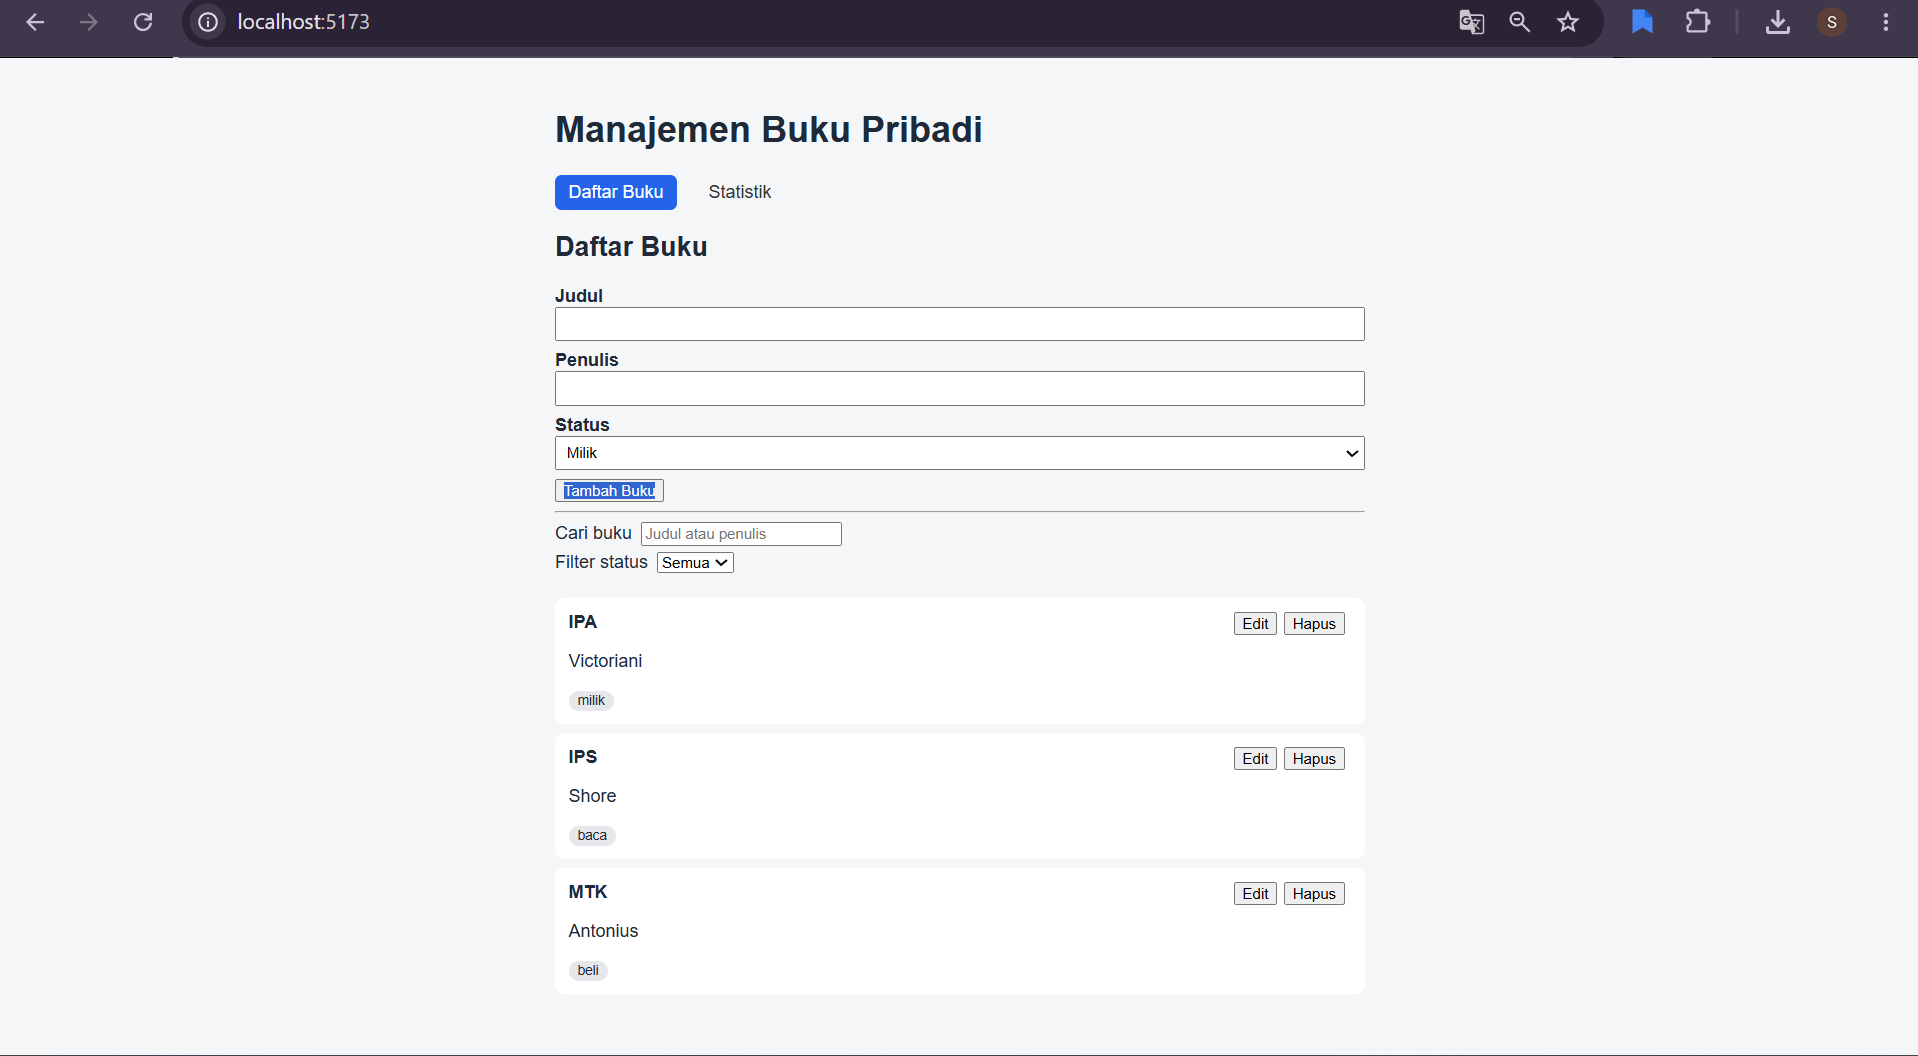
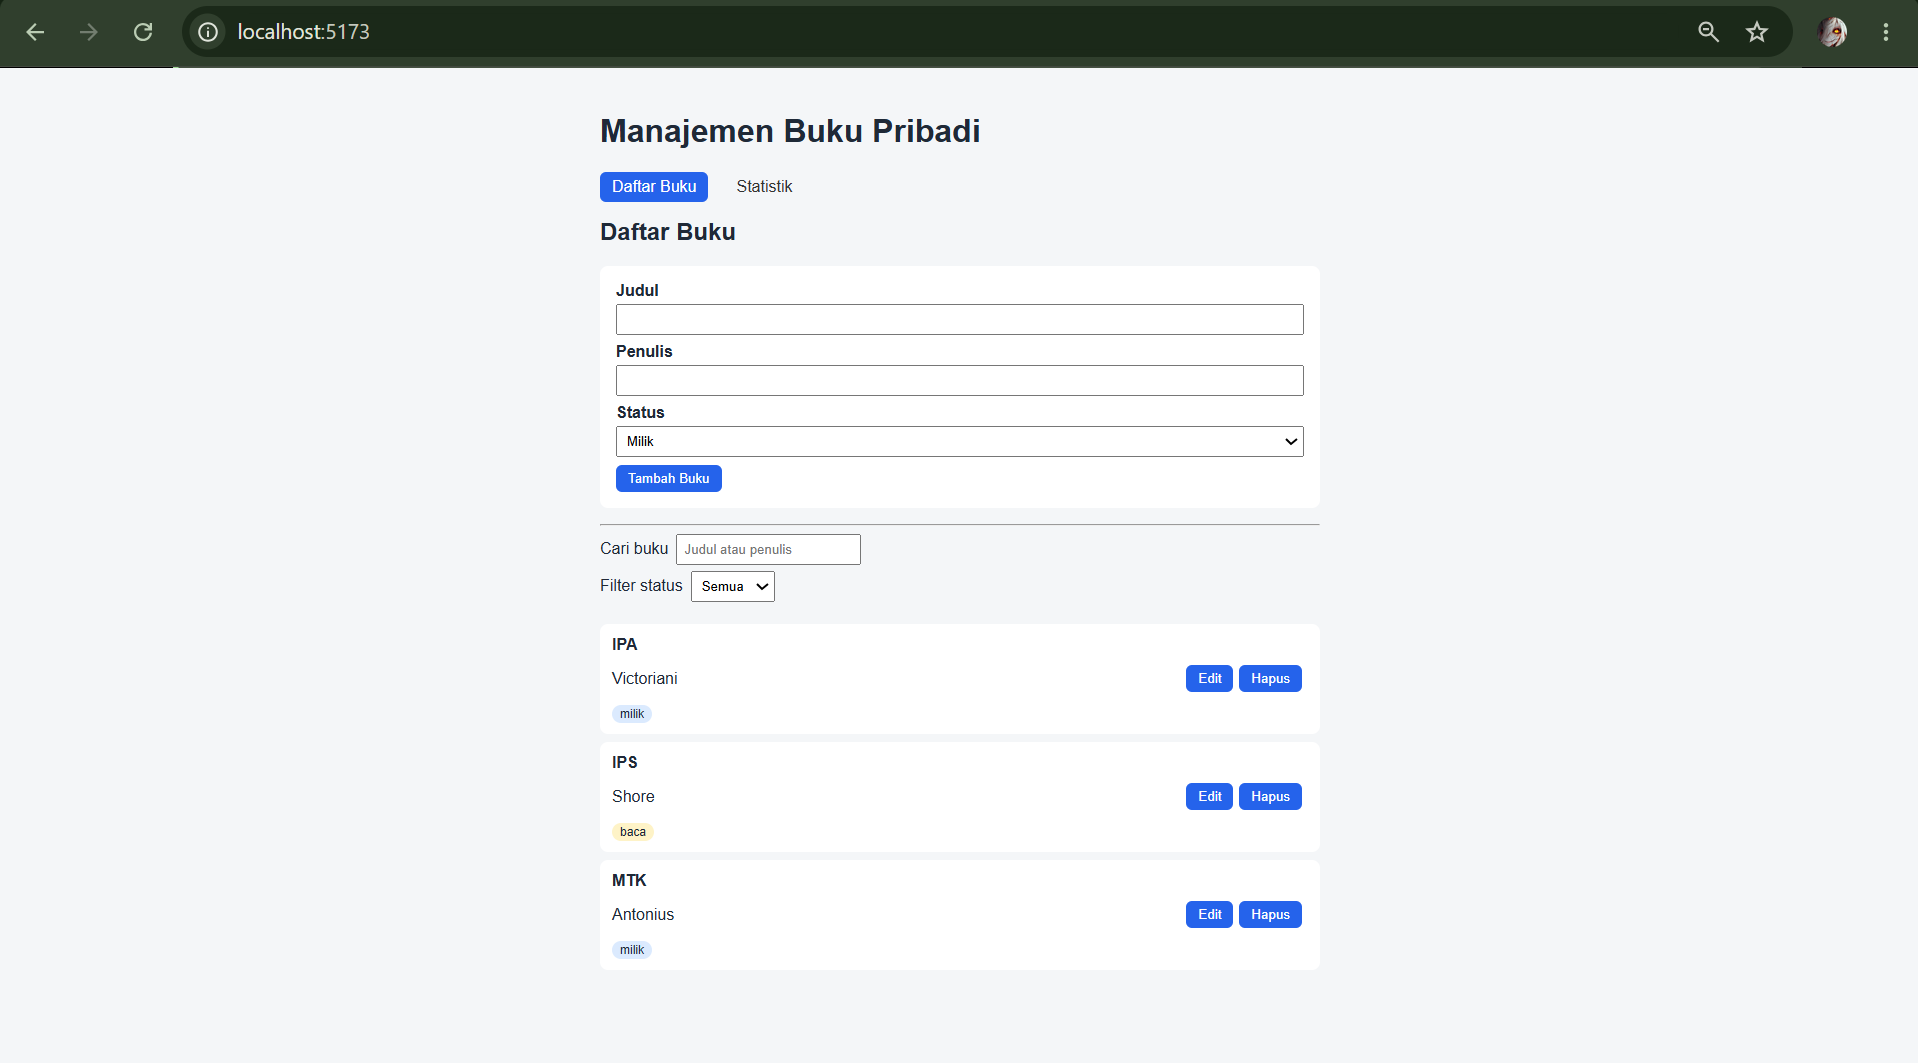
Rapikan struktur folder dan CSS per komponen

diff --git a/Syehabudin_124140102_pertemuan3/src/App.css b/Syehabudin_124140102_pertemuan3/src/App.css
@@ -1,184 +1,4 @@
-.counter {
-  font-size: 16px;
-  padding: 5px 10px;
-  border-radius: 5px;
-  color: var(--accent);
-  background: var(--accent-bg);
-  border: 2px solid transparent;
-  transition: border-color 0.3s;
-  margin-bottom: 24px;
-
-  &:hover {
-    border-color: var(--accent-border);
-  }
-  &:focus-visible {
-    outline: 2px solid var(--accent);
-    outline-offset: 2px;
-  }
-}
-
-.hero {
-  position: relative;
-
-  .base,
-  .framework,
-  .vite {
-    inset-inline: 0;
-    margin: 0 auto;
-  }
-
-  .base {
-    width: 170px;
-    position: relative;
-    z-index: 0;
-  }
-
-  .framework,
-  .vite {
-    position: absolute;
-  }
-
-  .framework {
-    z-index: 1;
-    top: 34px;
-    height: 28px;
-    transform: perspective(2000px) rotateZ(300deg) rotateX(44deg) rotateY(39deg)
-      scale(1.4);
-  }
-
-  .vite {
-    z-index: 0;
-    top: 107px;
-    height: 26px;
-    width: auto;
-    transform: perspective(2000px) rotateZ(300deg) rotateX(40deg) rotateY(39deg)
-      scale(0.8);
-  }
-}
-
-#center {
-  display: flex;
-  flex-direction: column;
-  gap: 25px;
-  place-content: center;
-  place-items: center;
-  flex-grow: 1;
-
-  @media (max-width: 1024px) {
-    padding: 32px 20px 24px;
-    gap: 18px;
-  }
-}
-
-#next-steps {
-  display: flex;
-  border-top: 1px solid var(--border);
-  text-align: left;
-
-  & > div {
-    flex: 1 1 0;
-    padding: 32px;
-    @media (max-width: 1024px) {
-      padding: 24px 20px;
-    }
-  }
-
-  .icon {
-    margin-bottom: 16px;
-    width: 22px;
-    height: 22px;
-  }
-
-  @media (max-width: 1024px) {
-    flex-direction: column;
-    text-align: center;
-  }
-}
-
-#docs {
-  border-right: 1px solid var(--border);
-
-  @media (max-width: 1024px) {
-    border-right: none;
-    border-bottom: 1px solid var(--border);
-  }
-}
-
-#next-steps ul {
-  list-style: none;
-  padding: 0;
-  display: flex;
-  gap: 8px;
-  margin: 32px 0 0;
-
-  .logo {
-    height: 18px;
-  }
-
-  a {
-    color: var(--text-h);
-    font-size: 16px;
-    border-radius: 6px;
-    background: var(--social-bg);
-    display: flex;
-    padding: 6px 12px;
-    align-items: center;
-    gap: 8px;
-    text-decoration: none;
-    transition: box-shadow 0.3s;
-
-    &:hover {
-      box-shadow: var(--shadow);
-    }
-    .button-icon {
-      height: 18px;
-      width: 18px;
-    }
-  }
-
-  @media (max-width: 1024px) {
-    margin-top: 20px;
-    flex-wrap: wrap;
-    justify-content: center;
-
-    li {
-      flex: 1 1 calc(50% - 8px);
-    }
-
-    a {
-      width: 100%;
-      justify-content: center;
-      box-sizing: border-box;
-    }
-  }
-}
-
-#spacer {
-  height: 88px;
-  border-top: 1px solid var(--border);
-  @media (max-width: 1024px) {
-    height: 48px;
-  }
-}
-
-.ticks {
-  position: relative;
-  width: 100%;
-
-  &::before,
-  &::after {
-    content: '';
-    position: absolute;
-    top: -4.5px;
-    border: 5px solid transparent;
-  }
-
-  &::before {
-    left: 0;
-    border-left-color: var(--border);
-  }
-  &::after {
-    right: 0;
-    border-right-color: var(--border);
-  }
-}
+.app { max-width: 720px; margin: 0 auto; padding: 24px; text-align: left; }
+nav { display: flex; gap: 16px; margin-bottom: 16px; }
+nav a { text-decoration: none; color: #333; padding: 6px 12px; border-radius: 6px; }
+nav a.active { background: #2563eb; color: #fff; }

diff --git a/Syehabudin_124140102_pertemuan3/src/index.css b/Syehabudin_124140102_pertemuan3/src/index.css
@@ -1,16 +1,4 @@
-body { font-family: Arial, sans-serif; background: #f4f6f8; color: #1f2937; margin: 0; display: block; }
+body { font-family: Arial, sans-serif; background: #f4f6f8; color: #1f2937; margin: 0; display: block; }
 #root { width: auto; max-width: none; margin: 0; border: none; text-align: left; }
-.app { max-width: 720px; margin: 0 auto; padding: 24px; text-align: left; }
-nav { display: flex; gap: 16px; margin-bottom: 16px; }
-nav a { text-decoration: none; color: #333; padding: 6px 12px; border-radius: 6px; }
-nav a.active { background: #2563eb; color: #fff; }
-.book-form div { margin-bottom: 8px; }
-.book-form label { display: block; font-weight: bold; }
-.book-form input, .book-form select { width: 100%; padding: 6px; box-sizing: border-box; }
-.form-error { color: #dc2626; font-weight: bold; }
-.book-list { list-style: none; padding: 0; }
-.book-item { display: flex; justify-content: space-between; background: #fff; padding: 12px; border-radius: 8px; margin-bottom: 8px; }
-.badge { padding: 2px 8px; border-radius: 12px; background: #e5e7eb; font-size: 12px; }
-button { margin-right: 6px; cursor: pointer; }
-#search, #filter { margin-left: 8px; margin-bottom: 6px; }
-#search, #filter { margin-left: 8px; margin-bottom: 6px; }
+button { margin-right: 6px; padding: 6px 12px; border: none; border-radius: 6px; background: #2563eb; color: #fff; cursor: pointer; }
+button:hover { background: #1d4ed8; }

diff --git a/Syehabudin_124140102_pertemuan3/src/pages/Home/Home.jsx b/Syehabudin_124140102_pertemuan3/src/pages/Home/Home.jsx
@@ -1,9 +1,10 @@
+import './Home.css';
 import { useState } from 'react';
-import { useBooks } from '../context/BookContext';
-import BookForm from '../components/BookForm/BookForm';
-import BookList from '../components/BookList/BookList';
-import BookFilter from '../components/BookFilter/BookFilter';
-import SearchBar from '../components/SearchBar/SearchBar';
+import { useBooks } from '../../context/BookContext';
+import BookForm from '../../components/BookForm/BookForm';
+import BookList from '../../components/BookList/BookList';
+import BookFilter from '../../components/BookFilter/BookFilter';
+import SearchBar from '../../components/SearchBar/SearchBar';
 
 function HomePage() {
   const { books, addBook, updateBook, deleteBook } = useBooks();
@@ -22,7 +23,7 @@ function HomePage() {
   });
 
   return (
-    <section>
+    <section className="home-page">
       <h2>Daftar Buku</h2>
       <BookForm onSubmit={addBook} />
       <hr />

diff --git a/Syehabudin_124140102_pertemuan3/src/components/BookList/BookList.css b/Syehabudin_124140102_pertemuan3/src/components/BookList/BookList.css
@@ -1,0 +1,6 @@
+.book-list { list-style: none; padding: 0; }
+.book-item { display: flex; justify-content: space-between; align-items: center; background: #fff; padding: 12px; border-radius: 8px; margin-bottom: 8px; }
+.badge { padding: 2px 8px; border-radius: 12px; background: #e5e7eb; font-size: 12px; }
+.badge-milik { background: #dbeafe; }
+.badge-baca { background: #fef3c7; }
+.badge-beli { background: #dcfce7; }

diff --git a/Syehabudin_124140102_pertemuan3/src/components/BookForm/BookForm.css b/Syehabudin_124140102_pertemuan3/src/components/BookForm/BookForm.css
@@ -1,0 +1,5 @@
+.book-form { background: #fff; padding: 16px; border-radius: 8px; margin-bottom: 16px; }
+.book-form div { margin-bottom: 8px; }
+.book-form label { display: block; font-weight: bold; margin-bottom: 4px; }
+.book-form input, .book-form select { width: 100%; padding: 6px; box-sizing: border-box; }
+.form-error { color: #dc2626; font-weight: bold; }

diff --git a/Syehabudin_124140102_pertemuan3/src/pages/Stats/Stats.jsx b/Syehabudin_124140102_pertemuan3/src/pages/Stats/Stats.jsx
@@ -1,10 +1,11 @@
-import { useBooks } from '../context/BookContext';
+import './Stats.css';
+import { useBooks } from '../../context/BookContext';
 
 function StatsPage() {
   const { stats } = useBooks();
 
   return (
-    <section>
+    <section className="stats-page">
       <h2>Statistik Buku</h2>
       <ul>
         <li>Total buku: {stats.total}</li>

diff --git a/Syehabudin_124140102_pertemuan3/src/App.jsx b/Syehabudin_124140102_pertemuan3/src/App.jsx
@@ -1,6 +1,7 @@
+import './App.css';
 import { NavLink, Route, Routes } from 'react-router-dom';
-import HomePage from './pages/HomePage';
-import StatsPage from './pages/StatsPage';
+import HomePage from './pages/Home/Home';
+import StatsPage from './pages/Stats/Stats';
 
 function App() {
   return (

diff --git a/Syehabudin_124140102_pertemuan3/src/components/BookList/BookList.jsx b/Syehabudin_124140102_pertemuan3/src/components/BookList/BookList.jsx
@@ -1,3 +1,4 @@
+import './BookList.css';
 import { useState } from 'react';
 import PropTypes from 'prop-types';
 import BookItem from '../BookItem/BookItem';

diff --git a/Syehabudin_124140102_pertemuan3/src/components/BookFilter/BookFilter.jsx b/Syehabudin_124140102_pertemuan3/src/components/BookFilter/BookFilter.jsx
@@ -1,3 +1,4 @@
+import './BookFilter.css';
 import PropTypes from 'prop-types';
 
 function BookFilter({ value, onChange }) {

diff --git a/Syehabudin_124140102_pertemuan3/src/pages/Stats/Stats.css b/Syehabudin_124140102_pertemuan3/src/pages/Stats/Stats.css
@@ -1,0 +1,2 @@
+.stats-page { background: #fff; padding: 16px; border-radius: 8px; }
+.stats-page h2 { margin-top: 0; }

diff --git a/Syehabudin_124140102_pertemuan3/src/components/BookForm/BookForm.jsx b/Syehabudin_124140102_pertemuan3/src/components/BookForm/BookForm.jsx
@@ -1,3 +1,4 @@
+import './BookForm.css';
 import { useState } from 'react';
 import PropTypes from 'prop-types';
 

diff --git a/Syehabudin_124140102_pertemuan3/src/components/BookFilter/BookFilter.css b/Syehabudin_124140102_pertemuan3/src/components/BookFilter/BookFilter.css
@@ -1,0 +1,1 @@
+#search, #filter { margin-left: 8px; margin-bottom: 6px; padding: 6px; }
